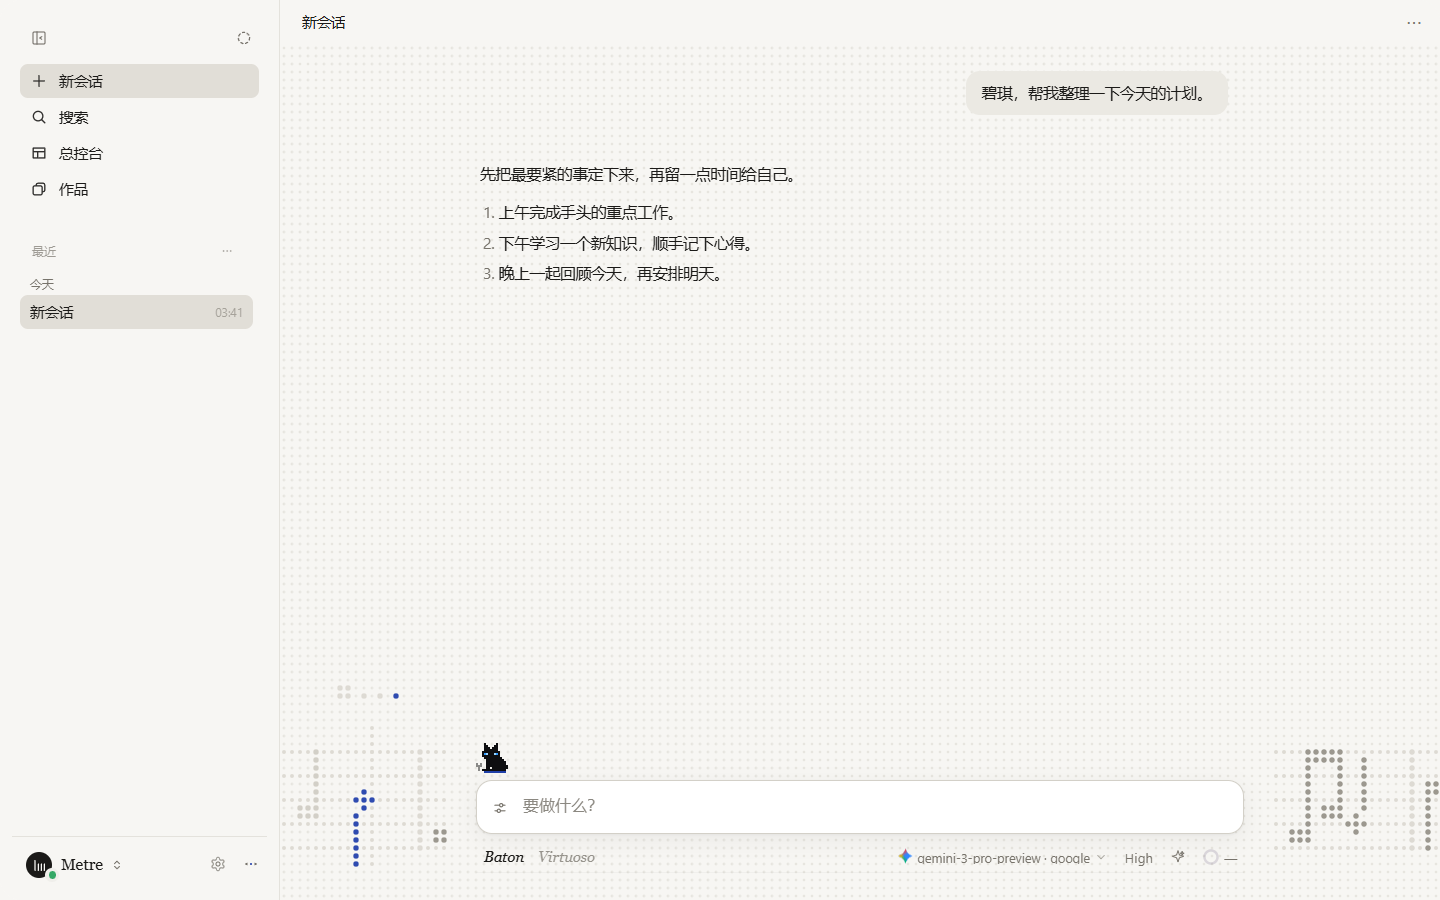
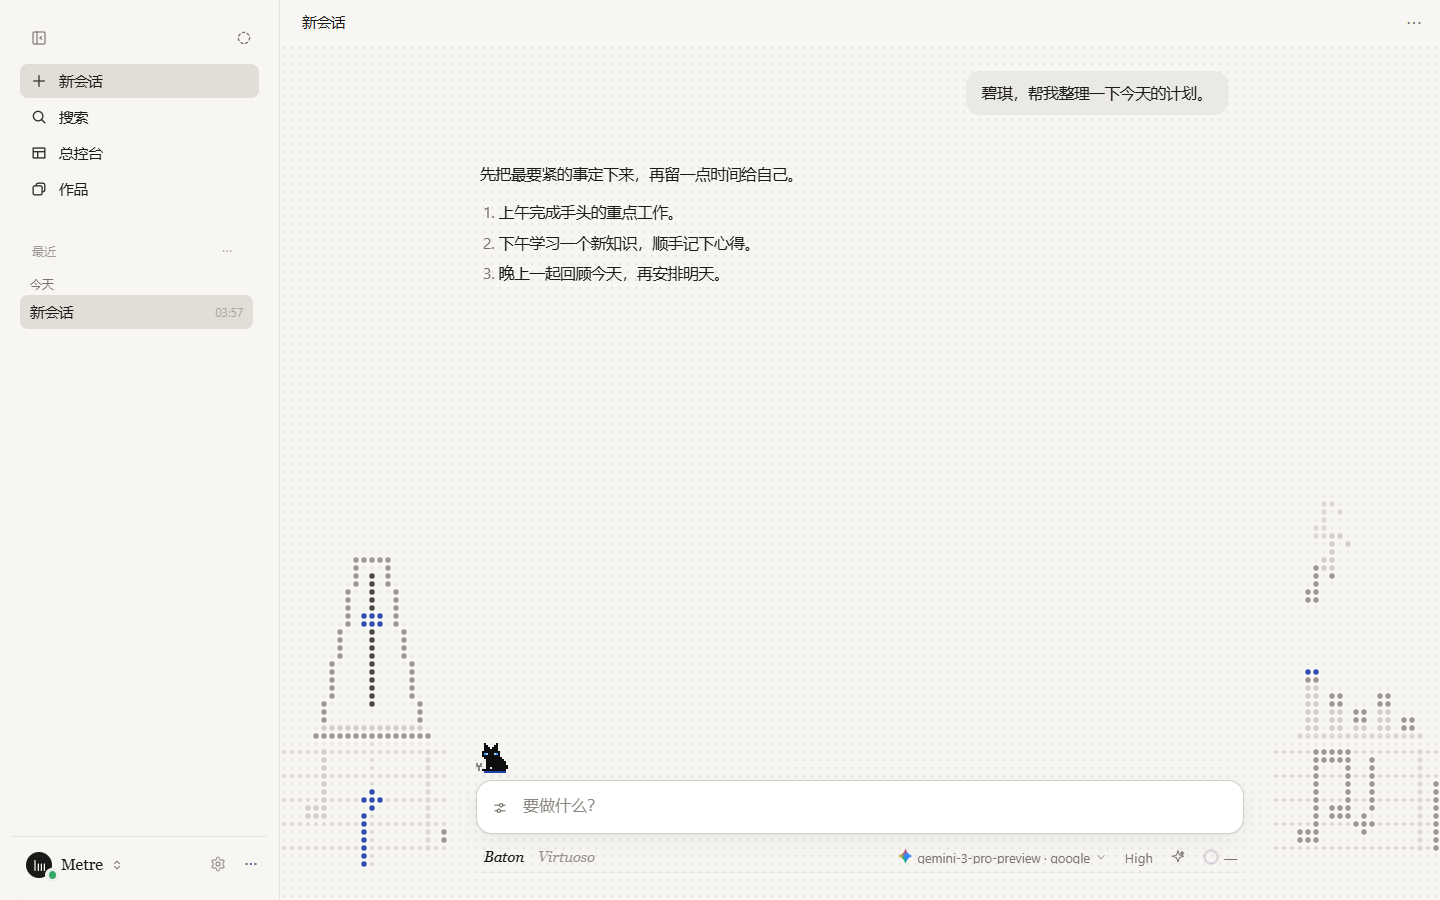
metre v6: dot-matrix metronome and level-meter scene, richer count-in (METRE, swinging pendulum, cat), board rests and no 'undefined'

diff --git a/ui/injections/laolao-metre-backdrop.js b/ui/injections/laolao-metre-backdrop.js
@@ -133,6 +133,13 @@
       const x0 = Math.ceil((r.left - rect.left) / PITCH), y0 = Math.ceil((r.top - rect.top) / PITCH);
       return {index, kind: ['sessions', 'memory', 'runtime'][index] || 'memory', x0, y0, w: Math.floor((r.right - rect.left) / PITCH) - x0, h: Math.floor((r.bottom - rect.top) / PITCH) - y0};
     }).filter(Boolean) : [];
+    // 场景道具（第六版 · 续，用户：「这些页面就这样？是不是太简单了？」）：
+    //   左边空地一台点阵节拍器，摆杆每半拍跳一格（左-中-右-中），站在谱子上方（首页站在看板那条底线上）；
+    //   右边空地一组电平表（五根柱子跟着拍子跳），从它上面每两拍飘起一个八分音符，越飘越淡。
+    //   两边任一边不够宽就不放那一件；开着总控台时通常都不放。
+    const ground = home ? (arts.length ? Math.max(...arts.map((a) => a.y0 + a.h)) : rows - 8) : staffTop - 2;
+    const metroX = leftRoom >= 18 ? (home ? Math.round(leftRoom / 2) : conductor) : -1;
+    const meterX = rightRoom >= 20 ? clear[1] + Math.round((rightRoom - 14) / 2) : -1;
     const inArt = (x, y) => arts.some((a) => x >= a.x0 && x < a.x0 + a.w && y >= a.y0 && y < a.y0 + a.h);
     const open = (x) => conductor >= 0 && (x < clear[0] || x >= clear[1]);
     const colors = {
@@ -161,7 +168,7 @@
     } else for (let y = 0; y < rows; y++) for (let x = 0; x < cols; x++) dot(b, x, y, PITCH * 0.16, colors.off);
     for (let i = 0; i < 5; i++) for (let x = 0; x < cols; x++) if (open(x)) dot(b, x, staffTop + i * SPACE, PITCH * 0.24, colors.line);
     if (conductor >= 0) for (let y = staffTop - 3; y <= staffBottom + 2; y++) dot(b, conductor, y, PITCH * 0.24, colors.line);
-    grid = {cols, rows, ratio, base, staffTop, staffBottom, conductor, colors, dot, open, arts};
+    grid = {cols, rows, ratio, base, staffTop, staffBottom, conductor, colors, dot, open, arts, ground, metroX, meterX};
     lastKey = '';
   }
 
@@ -170,6 +177,7 @@
     const {cols, staffTop, staffBottom, conductor, open} = grid;
     const lit = new Map();
     for (const art of grid.arts) artScene(art, lit);
+    propsScene(lit);
     if (conductor < 0) return lit;
     const put = (x, y, kind) => { if (x >= 0 && x < cols && open(x)) { const k = x + ',' + y; if (lit.get(k) !== 'accent') lit.set(k, kind); } };
     const lineRow = (pos) => staffBottom - (pos / 2) * SPACE;   // pos 偶数时是整数行
@@ -216,7 +224,8 @@
         for (let x = a.sx; x <= c.sx; x++) { put(x, row, kind); put(x, row + (up ? 1 : -1), kind); }
       }
     }
-    // 四个拍点：指挥线上方，强拍大一点；当前那一拍是旧铜色
+    // 四个拍点：指挥线上方，强拍大一点；当前那一拍是强调色（左边放了节拍器时不要，节拍器本身就在打拍子）
+    if (grid.metroX >= 0) return lit;
     const beat = reduced() ? 0 : Math.floor(step / 2) % 4;
     const by = staffTop - 7;
     [[-4, 2], [-1, 1], [1, 1], [3, 1]].forEach(([off, size], i) => {
@@ -225,6 +234,59 @@
     return lit;
   }
 
+  // 节拍器 + 电平表 + 飘起来的音符
+  const NOTE_GLYPH = ['.##.', '.#.#', '.#..', '##..', '##..'];
+  function propsScene(lit) {
+    const {cols, rows, ground, metroX, meterX} = grid;
+    const put = (x, y, kind) => { if (x >= 0 && y >= 0 && x < cols && y < rows) lit.set(x + ',' + y, kind); };
+    const still = reduced();
+    if (metroX >= 0) {
+      const g = ground;
+      for (let x = metroX - 7; x <= metroX + 7; x++) put(x, g, 'note');
+      for (let x = metroX - 6; x <= metroX + 6; x++) put(x, g - 1, 'past');
+      // 机身：梯形，下宽上窄，只画两条边和顶
+      const H = 20;
+      for (let i = 0; i < H; i++) {
+        const half = Math.round(6 - (4 * i) / (H - 1));
+        put(metroX - half, g - 2 - i, 'note');
+        put(metroX + half, g - 2 - i, 'note');
+      }
+      for (let x = metroX - 2; x <= metroX + 2; x++) put(x, g - 2 - H, 'note');
+      // 刻度：机身中间一竖排暗点
+      for (let y = g - 18; y <= g - 8; y += 2) put(metroX, y, 'line');
+      // 摆杆：支点在机身下部，每半拍跳一格（左-中-右-中）
+      const swing = still ? 0 : [-1, 0, 1, 0][step % 4] * 0.34;
+      const px = metroX, py = g - 4, len = 16;
+      for (let r = 0; r <= len; r++) put(Math.round(px + Math.sin(swing) * r), Math.round(py - Math.cos(swing) * r), 'ink');
+      const bx = Math.round(px + Math.sin(swing) * 11), by = Math.round(py - Math.cos(swing) * 11);
+      for (let dy = 0; dy < 2; dy++) for (let dx = -1; dx <= 1; dx++) put(bx + dx, by + dy, 'accent');
+    }
+    if (meterX >= 0) {
+      const g = ground;
+      for (let x = meterX - 1; x <= meterX + 14; x++) put(x, g, 'line');
+      let peak = -1, peakH = 0;
+      const hs = [];
+      for (let i = 0; i < 5; i++) {
+        const v = still ? 0.4 : hash(step * 5 + i * 97) * 0.55 + hash(Math.floor(step / 2) * 3 + i) * 0.45;
+        const h = 2 + Math.floor(v * 12);
+        hs.push(h);
+        if (h > peakH) { peakH = h; peak = i; }
+      }
+      hs.forEach((h, i) => {
+        for (let y = 1; y <= h; y++) for (let dx = 0; dx < 2; dx++) put(meterX + i * 3 + dx, g - 1 - (y - 1), y > h - 2 ? (i === peak && y === h ? 'accent' : 'note') : 'past');
+      });
+      // 每两拍从电平表上方飘起一个八分音符，往上走、越走越淡
+      if (!still) for (let j = 0; j < 3; j++) {
+        const k = Math.floor(step / 4) - j;
+        const age = step - k * 4;
+        if (k < 0 || age > 11) continue;
+        const x0 = meterX + Math.floor(hash(k * 13 + 1) * 11);
+        const y0 = g - 20 - age;
+        const kind = age < 4 ? 'note' : age < 8 ? 'past' : 'line';
+        NOTE_GLYPH.forEach((row, y) => [...row].forEach((c, x) => { if (c === '#') put(x0 + x, y0 + y, kind); }));
+      }
+    }
+  }
   // 看板的图：在一块 w×h 格里点亮。kind 只用 note / past / line / accent；鼠标在这张卡片上时 note 换成更亮的 ink。
   function artScene(a, lit) {
     const hot = a.index === hovered;

diff --git a/ui/injections/laolao-metre-transition.js b/ui/injections/laolao-metre-transition.js
@@ -91,10 +91,10 @@
     // 像素 M（一格 = 2×2 个点阵格），下面点阵字 METRE（5×7），再下面 1 2 3 4 四个数拍的数字（3×5）；小黑猫从右边跑进来坐在字的右边。
     // 字和数字用半格的细点（6px 一颗；用户 11-15：「Metre字太大了」），整格画太抢 M。
     const S = 2;
-    const FINE = CELL / 2;
+    const FINE = 5;          // 字、数字、猫都用 5px 的细点
     const blockH = 11 * S + 2 + 4 + 2 + 3;
-    // 猫坐在 M 右边（16 格宽 + 3 格空），整组往左让半只猫，M + 猫合起来居中
-    const mx = Math.floor(cols / 2) - Math.floor((13 * S) / 2) - 9;
+    // M 是视觉焦点，居中（用户 11-15：「保持logo视觉焦点啊把下面的字和猫小一点」）
+    const mx = Math.floor(cols / 2) - Math.floor((13 * S) / 2);
     const my = Math.max(2, Math.floor(rows / 2) - Math.floor(blockH / 2) - 1);
     // 字和数字的位置用 CSS 像素（细点）；M 的中线和整块的中线对齐
     const midPx = (mx + 6.5 * S) * CELL;
@@ -102,13 +102,14 @@
     const wordX = Math.round(midPx - wordW / 2), wordY = (my + 11 * S + 2) * CELL;
     const digitsW = (4 * 5 - 2) * FINE;
     const digitsX = Math.round(midPx - digitsW / 2), digitsY = wordY + 7 * FINE + 2 * CELL;
-    const catFinalX = mx + 13 * S + 3, catY = my + 11 * S - 16;
+    // 小猫坐在 M 底座右边，脚踩在底座那一行的底边上
+    const catFinalX = (mx + 13 * S) * CELL + 10, catY = (my + 11 * S) * CELL - 16 * FINE;
     // 摆：支点在底座上沿正中，摆杆长 8 个标志格；拍子落在两头（像真节拍器，每拍摆到一边「嗒」一下）
     const pivot = {x: mx + 6.5 * S, y: my + 10 * S};
     const ROD = 8 * S, SWING = 0.36;
 
     // cover = 波推到第几圈；lit = M 亮到第几列；beat = 当前拍；sweep = 指挥线到第几列（-1 = 还没落拍）；t = 从开始算的毫秒
-    const state = {cover: -1, lit: 0, beat: -1, sweep: -1, t: 0, letters: 0, catX: cols + 2, catFrame: 0, sitting: false, ripple: -1};
+    const state = {cover: -1, lit: 0, beat: -1, sweep: -1, t: 0, letters: 0, catX: W + 10, catFrame: 0, sitting: false, ripple: -1};
     function cellState(x, y) {
       // 0 = 没盖（透明）；1 = 刚亮的点；2 = 半格；3 = 整格
       const age = state.cover - Math.max(Math.abs(x - ox), Math.abs(y - oy));
@@ -208,9 +209,10 @@
       // 小黑猫：每个像素一颗点，身体用字色，眼睛用强调色
       const frameRows = state.sitting ? sitFrames[state.catFrame % Math.max(1, sitFrames.length)] : runFrames[state.catFrame % Math.max(1, runFrames.length)];
       if (frameRows) frameRows.forEach((row, y) => [...row].forEach((c, x) => {
-        if (c === 'K') lit(state.catX + x, catY + y, colors.on, 0.4);
-        else if (c === 'E' || c === 'H') lit(state.catX + x, catY + y, colors.accent, 0.4);
-        else if (c === 'S') lit(state.catX + x, catY + y, colors.dim, 0.24);
+        const px = state.catX + x * FINE, py = catY + y * FINE;
+        if (c === 'K') fine(px, py, colors.on, 0.46);
+        else if (c === 'E' || c === 'H') fine(px, py, colors.accent, 0.46);
+        else if (c === 'S') fine(px, py, colors.dim, 0.3);
       }));
     }
 
@@ -245,7 +247,7 @@
           state.ripple = Math.floor((t - n * BEAT) / 22);
           if (t < run) {
             state.sitting = false;
-            state.catX = Math.round(cols + 2 - (cols + 2 - catFinalX) * (t / run));
+            state.catX = Math.round(W + 10 - (W + 10 - catFinalX) * (t / run));
             state.catFrame = Math.floor(t / 80);
           } else {
             state.sitting = true;

diff --git a/ui/injections/laolao-metre-board-data.js b/ui/injections/laolao-metre-board-data.js
@@ -35,7 +35,14 @@
     return m < 60 ? `${m}:${String(s % 60).padStart(2, '0')}` : `${Math.floor(m / 60)} 小时 ${m % 60} 分`;
   };
   const tokens = (n) => !(n > 0) ? '0' : n >= 1e6 ? (n / 1e6).toFixed(1) + 'M' : n >= 1e4 ? Math.round(n / 1e3) + 'k' : n >= 1e3 ? (n / 1e3).toFixed(1) + 'k' : String(n);
-  const empty = (text) => h('p', 'pk-mb-empty', esc(text));
+  // 空状态（第六版）：左边一个点阵画的四分休止符——「这一声部还没开始」，右边一句说明
+  const REST = ['.#...', '..#..', '...#.', '..#..', '.#...', '..#..', '...#.', '.##..', '#....'];
+  const restGlyph = (() => {
+    let dots = '';
+    REST.forEach((row, y) => [...row].forEach((c, x) => { if (c === '#') dots += `<circle cx="${x * 4 + 2}" cy="${y * 4 + 2}" r="1.5"/>`; }));
+    return `<svg class="pk-mb-rest" viewBox="0 0 20 36" aria-hidden="true">${dots}</svg>`;
+  })();
+  const empty = (text) => { const node = h('div', 'pk-mb-empty pk-mb-empty--rest', `${restGlyph}<span>${esc(text)}</span>`); return node; };
   const KIND = {dispatch: ['派发', 'run'], report: ['汇报', 'done'], end: ['跑完', 'done'], error: ['出错', 'fail'], stop: ['叫停', 'wait'], memory: ['记忆', 'done'], message: ['消息', 'wait']};
   // 柱状图左边的短名（两个字，放得下）；完整的类别名在悬停提示里。
   const MEMORY_CATS = {overview: '概况', structure: '结构', commands: '命令', conventions: '规矩', decisions: '决定',
@@ -289,8 +296,10 @@
     const parentQuiet = o.parentRunning && o.parentLastActiveAt ? now - o.parentLastActiveAt : 0;
     b.setStat('state', stale ? '连接断了' : parentQuiet > QUIET_MS && o.state === 'Metre 在做' ? `Metre ${span(parentQuiet)}没动静` : o.state);
     b.setStat('elapsed', o.startedAt ? span(now - o.startedAt) : '—');
-    b.setStat('running', `${o.running}/${o.limit}`);
-    b.setStat('returned', `${o.returned} · ${o.failed}`);
+    // 断线时 overview 可能只剩一半字段：没有的数写「—」，不写 undefined
+    const n = (v) => (v == null || Number.isNaN(v) ? '—' : v);
+    b.setStat('running', `${n(o.running)}/${n(o.limit)}`);
+    b.setStat('returned', `${n(o.returned)} · ${n(o.failed)}`);
     const key = sessionKey();
     b.enableActions({
       pause: async (btn) => { btn.disabled = true; try { await rpc('pinkie.metre.pause', {key, paused: !data?.overview?.paused}); } catch {} refreshSoon(0); },

diff --git a/ui/injections/laolao-metre-board.css b/ui/injections/laolao-metre-board.css
@@ -478,3 +478,8 @@ html:has(.pk-metre-board.is-resizing) { cursor: col-resize; }
   .pk-mb-score__meta time { display: none; }
   .pk-mb-score__line { flex-wrap: wrap; }
 }
+
+/* 第六版：空状态左边一个点阵四分休止符（这一声部还没开始），字在右边 */
+.pk-mb-empty--rest { display: flex; align-items: center; gap: 14px; margin: 6px 0; }
+.pk-mb-rest { flex: none; width: 15px; height: 27px; fill: var(--metre-muted, #77736B); opacity: 0.55; }
+.pk-metre-board__card:hover .pk-mb-rest { fill: var(--metre-accent, #2F4BB0); }

diff --git a/briefs/metre-mode-1113/PROGRESS.md b/briefs/metre-mode-1113/PROGRESS.md
@@ -548,3 +548,31 @@
 **和参考视频比**：视频里的主题是满屏的场景画，我们刻意克制得多——大部分是很淡的点阵，只有底部两侧一段谱子在走，正中、输入框、总控台上什么都没有。理由是用户先前要「大厂的感觉」、骂过「电子垃圾」，这里正文可读性第一；如果用户嫌太素，下一步可以在两侧空地往上加东西（比如竖着的点阵节拍器），不动正中。
 
 **没做 / 没验**：没在真 App（WebView2）里看；窗口不可见时停走只看了代码和单测，没在真窗口里切后台量；首页没有开总控台的截图（首页的总控台是另一页）；headless 里深色是直接改 `data-theme` 打上的，深色对话页的行内代码块是灰底白字、对比偏低，不是本次改的，没细查。顺带看到一个和本次无关的页面报错：`laolao-companion.js` 的 `liftHome` 读 `undefined.classList`（每次进 Metre 对话页都报），没修。
+
+### 第六版「总谱」：首页、配色、场景、切换过场（Windows，11-15）
+
+**起因**（用户原话）：「方向不错但是对比参考就知道太普通了，整体没有任何关于更多关于 Metre 自己独有风格设计」「整个页面呼吸感留白感太少就像堆起来的垃圾」「对话框下面的那 3 个框融入设计背景」「再调一下配色」「焦点应该突出引导语」「模式切换的动画也要做（用一样的像素动态视频风格，也要有独立的视觉语言）」。过程中又说：「过场动画连 Metre 字都没有吗？可以丰富一点吗」「Metre 字太大了」「保持 logo 视觉焦点，把下面的字和猫小一点」「这些页面就这样？是不是太简单了？」
+
+**配色「谱纸」**（`laolao-metre-skin.css` 末尾「第六版」、`laolao-metre-board.css` 状态色、`laolao-metre-backdrop.css`）：暖白谱纸底 #F7F6F3 / 深色 #151514，墨色字，只留一个强调色——钴蓝（浅 #2F4BB0，深 #93A5EE），意象是指挥在总谱上做记号的铅笔。上一稿的旧铜和「出错」的砖红太近，换成冷色以后和红、绿都分得开。状态色：在跑 = 钴蓝、做完 = 灰绿、其他 = 暖灰、出错 = 砖红、排队 = 浅灰。
+
+**首页**：只剩三件事——引导语、输入框、看板。
+- 引导语是主角：32px 衬线、左对齐在输入框那一栏；上面一行「速度记号」：类别（斜体）+ ♩ = 72 + 四个拍点（背景点阵每拍更新 `data-beat`），右边「换一句 →」。关键词钴蓝，下划线是一排点。像素 M 不再放在引导语上面。
+- 竖向节奏：输入框上沿在 50%，引导语在它上面 76px，看板贴底，中间都是空白。窗口不到 640 高时看板不显示。
+- 看板三块不要卡片了：卡片底、边框、阴影都去掉，图由背景点阵在卡片的位置直接点亮（总控台是一根会走的播放线、项目记忆是四条记录、运行环境是一个圈和一条往左走的曲线），鼠标移上去那一块变亮、标题变钴蓝。「看板 / 打开总控台」那一行标题不要了。
+- 背景点阵在首页中间淡、四边实；谱子不在首页走。
+
+**场景道具**（`laolao-metre-backdrop.js` 的 `propsScene`）：左边空地一台点阵节拍器，摆杆每半拍跳一格（左-中-右-中），摆锤钴蓝；右边空地一组五根柱子的电平表跟着拍子跳，每两拍从上面飘起一个八分音符、越飘越淡。对话页站在谱子上方，首页站在看板那条底线上。两边不够宽（例如开着总控台）就不放。还是一个半拍的 setTimeout，没有新计时器。
+
+**切换进 Metre 的过场**（新文件 `laolao-metre-transition.js`，`laolao-mode-switcher.js` 的 `mode.plain` 分支调用；碧琪几个模式的过场不变）：「预备拍」——
+1. 盖上：从模式按钮那里起，方形的波按格子往外推，每格先亮成一颗点再长成整格（0.38 秒）。
+2. 数拍（♩=200，一遍 1.2 秒）：正中像素 M 是焦点，框一列一列点亮，中间的摆杆真的在摆、每拍从摆锤推出一圈方形声波；M 下面细点小字 METRE 逐字亮、再下面 1 2 3 4 跟拍子亮；像素黑猫（细点、小号）从右边跑进来，第四拍坐在 M 底座右边。新页面没好就接着数。
+3. 落拍：一根钴蓝的「指挥棒」竖线从左往右扫，扫过的格子缩成点再熄，露出 Metre（0.42 秒）。
+减少动态效果时不放（原地换）；窗口在后台时退回定时器，不会卡住。真实点模式菜单切过去量过：盖上约 1.4 秒后 `data-laolao-mode=metre`，遮罩自己拿掉，落在新首页上。
+
+**总控台**：断线时「在跑 / 上限」「已交回 · 失败」写的是 `undefined`，改成「—」；各区块空状态左边加一个点阵四分休止符（这一声部还没开始）。
+
+**截图**（假网关，1440×900，headless Edge）：`ref/v6-home-light|dark.png`、`v6-home-640-dark.png`、`v6-chat-light|dark.png`、`v6-board-dark.png`、`v6-transition-2-metre-dark.png`（数拍中）、`v6-transition-3-wait-light.png`（数完在等）。
+
+**测试**：`metre-skin-cat` 17（+2：过场接线 / 减少动效 / 不留计时器；首页速度记号 / 看板画在点阵上 / 钴蓝）、`motion` 14、`mode-menu-fx` 9、`mode-controls` 4、`run-status-ui` 13、`brand-ui` 6、`composer-tray-and-home-draft` 3、`session-cross-mode-ui` 9、`metre-dispatch` 15、`metre-board` 12，全过。
+
+**没做 / 没验证**：没在真 App（WebView2）和真网关里看；1100×700 这类窄窗口首页抓图两次都在切模式那一步超时（抓图工具的问题，没查），窄窗口的看板 / 道具没看过图；落拍那一下扫屏只看了代码和一张中途的图，没录成动图；从 Metre 切回碧琪模式仍走碧琪的过场；对话页长对话滚动时道具是否挡字没看（道具只在输入框两边的空地，理论上不挡）。
